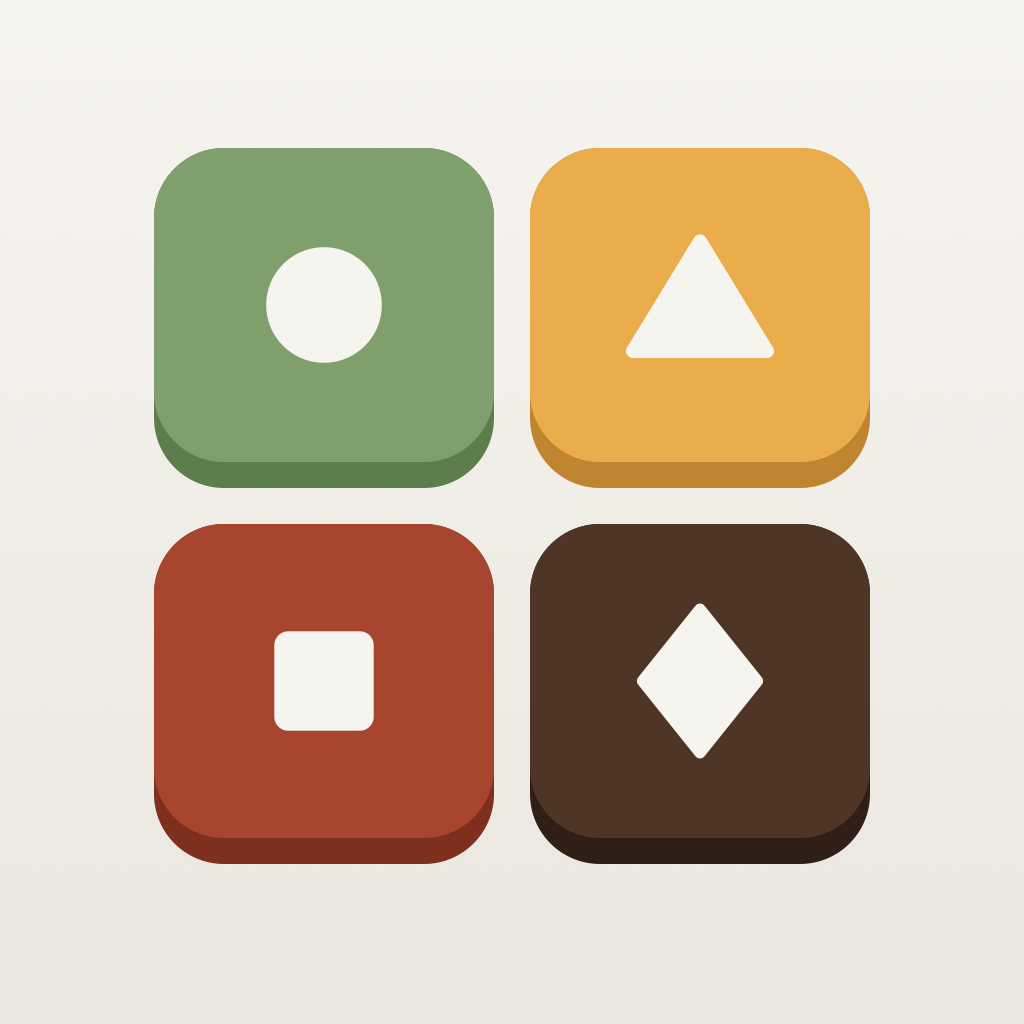
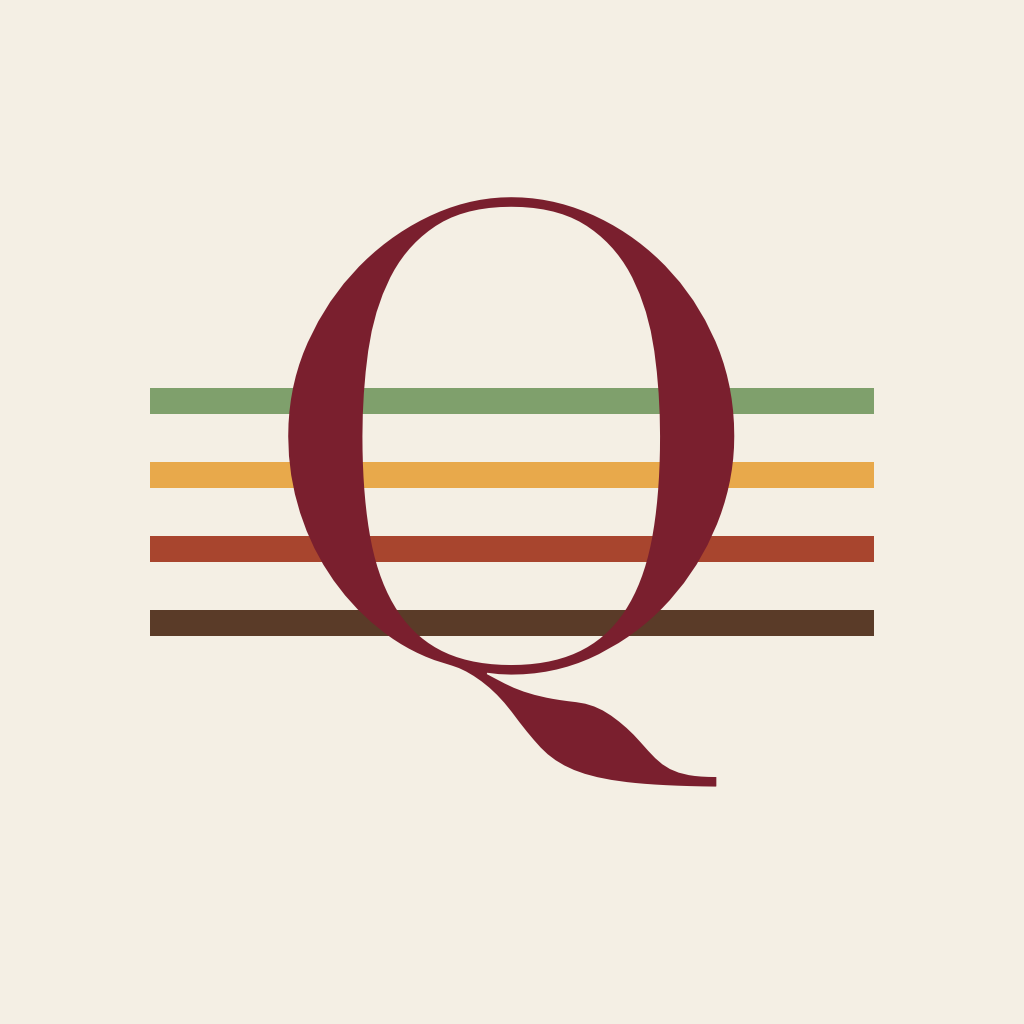
Quartets 1.1: program look, Allegro and Quintet, privacy covers Game Center

diff --git a/index.html b/index.html
@@ -1,25 +1,33 @@
 <!doctype html>
 <html lang="en"><head><meta charset="utf-8"><meta name="viewport" content="width=device-width,initial-scale=1">
-<title>Quartets: Daily Word Groups</title>
-<meta name="description" content="A daily word puzzle for iPhone. Sixteen words, four groups of four, four mistakes. Three years of Dailies and six themed packs.">
-<link rel="stylesheet" href="style.css"><link rel="icon" href="icon.png"></head>
-<body><main>
-<header><img src="icon.png" alt=""><div><h1>Quartets</h1><div class="lead">A daily word puzzle for iPhone</div></div></header>
-<nav><a href="#faq">FAQ</a><a href="privacy.html">Privacy</a><a href="terms.html">Terms</a><a href="mailto:shchukavlad4@gmail.com?subject=Quartets">Contact</a></nav>
+<title>Quartets</title>
+<meta name="description" content="Quartets is a daily word puzzle for iPhone: sixteen words, four hidden groups. Plus a Sunday Quintet, the Allegro speed round and eight packs.">
+<link rel="stylesheet" href="style.css"></head>
+<body><main class="page">
+<p class="label center">The 2026–27 season</p>
+<img class="icon" src="icon.png" alt="Quartets app icon: a Q over four colored staff lines">
+<h1>Quartets</h1>
+<hr class="rule">
+<p class="center note">A word puzzle for iPhone, printed like a concert program.</p>
+<p class="center"><a class="store" href="https://apps.apple.com/app/id6816981192">On the App Store</a></p>
 
-<p>Sixteen words sit on the board. They split into four groups of four, and each group shares a link: kinds of pasta, words that go before "ball", words with an animal hidden inside. Find all four groups before you make four mistakes.</p>
+<p class="label center" style="margin-top:36px">Program</p>
+<ol class="programme">
+  <li><span class="num">I</span><div><strong>Today's Quartet</strong><span>Sixteen words hide four groups of four. Everyone gets the same board, and four mistakes end it.</span></div></li>
+  <li><span class="num">II</span><div><strong>Allegro</strong><span>Three boards on one clock, a new set each day. Optional Game Center times.</span></div></li>
+  <li><span class="num">III</span><div><strong>The Sunday Quintet</strong><span>A bigger board once a week: twenty-five words, five groups of five.</span></div></li>
+  <li><span class="num">IV</span><div><strong>Repertoire</strong><span>Eight packs of fifty boards, from Kitchen Table to Passport.</span></div></li>
+  <li><span class="num">V</span><div><strong>The Season</strong><span>Every past Daily, back to No. 1.</span></div></li>
+</ol>
 
-<h2 id="faq">Questions</h2>
-<div class="card"><strong>What does "One away" mean?</strong><br>Three of the four words you picked belong together. Swap one word and try again.</div>
-<div class="card"><strong>Does picking the same four words twice cost a mistake?</strong><br>No. If you submit a set you already tried, the app tells you and nothing is counted.</div>
-<div class="card"><strong>What do the colors mean?</strong><br>They show difficulty, from easiest to trickiest: green, orange, red and brown. Each one also has its own shape (circle, triangle, square, diamond), so you don't need to tell colors apart.</div>
-<div class="card"><strong>What's Hard mode?</strong><br>Group names stay hidden until the puzzle is over. You still see which words went together. Turn it on in Settings.</div>
-<div class="card"><strong>When does a new puzzle come out?</strong><br>At midnight on your phone's clock. Everyone gets the same puzzle for the same date.</div>
-<div class="card"><strong>How does the streak work?</strong><br>Finish the day's puzzle, win or lose, to keep your streak going. Archive and pack puzzles don't count. A streak freeze covers one missed day a week (two with Unlimited).</div>
-<div class="card"><strong>What's free?</strong><br>The daily puzzle, the last 7 days of the archive, the Starter pack, your streak, basic stats and the widget. Unlimited adds every past Daily, all packs (including new ones), full stats and extra themes.</div>
-<div class="card"><strong>How do I cancel a subscription?</strong><br>On your iPhone open Settings, tap your name, then Subscriptions, and choose Quartets. Cancel at least 24 hours before the renewal date. Lifetime is a one-time payment and never renews.</div>
-<div class="card"><strong>I bought Unlimited on another device.</strong><br>Open Settings in Quartets and tap Restore Purchases while signed in with the same Apple Account.</div>
-<div class="card"><strong>I think a puzzle has two answers.</strong><br>Please tell us. Write to <a href="mailto:shchukavlad4@gmail.com?subject=Quartets%20puzzle">shchukavlad4@gmail.com</a> with the puzzle number (or pack and number) and the words. We check every report.</div>
+<div class="insert">
+<h2>Support</h2>
+<p><strong>How do I play?</strong> Tap four words you think belong together, then Submit. "One away" means three of your four are right. The first launch opens a short practice board. To play it again, open the Green Room and tap Rehearse again.</p>
+<p><strong>What does the Season Ticket include?</strong> Every past Daily and Quintet, all the packs (new ones too), full stats in the Notices, two more color themes and a second streak freeze each week. Today's board, the last seven days, this week's Quintet, Allegro and the Starter pack are free.</p>
+<p><strong>How do I restore a purchase?</strong> Green Room → Season Ticket → Restore purchases. Manage subscriptions in iPhone Settings → your name → Subscriptions.</p>
+<p><strong>Is Game Center required?</strong> No. It stays off until you turn it on in the Green Room or on the Notices page.</p>
+<p><strong>Something wrong with a board?</strong> Write to <a href="mailto:shchukavlad4@gmail.com?subject=Quartets">shchukavlad4@gmail.com</a> with the board's number.</p>
+</div>
 
-<footer>© 2026 Vladyslav Shchuka · <a href="privacy.html">Privacy Policy</a> · <a href="terms.html">Terms of Use</a></footer>
+<footer><a href="privacy.html">Privacy</a> · <a href="terms.html">Terms of Use</a></footer>
 </main></body></html>

diff --git a/terms.html b/terms.html
@@ -1,22 +1,24 @@
 <!doctype html>
 <html lang="en"><head><meta charset="utf-8"><meta name="viewport" content="width=device-width,initial-scale=1">
-<title>Terms of Use · Quartets</title><link rel="stylesheet" href="style.css"><link rel="icon" href="icon.png"></head>
-<body><main>
-<p><a href="index.html">← Quartets</a></p>
-<h1>Terms of Use</h1>
-<p class="lead">Last updated: September 28, 2026</p>
-<p>Quartets is licensed to you under Apple's Standard Licensed Application End User License Agreement (<a href="https://www.apple.com/legal/internet-services/itunes/dev/stdeula/">Apple EULA</a>). These terms add the details below.</p>
-<h2>Quartets Unlimited</h2>
+<title>Quartets · Terms of Use</title><link rel="stylesheet" href="style.css"><link rel="icon" href="icon.png"></head>
+<body><main class="page">
+<p class="label"><a href="index.html">Quartets</a></p>
+<h1 style="text-align:left">Terms of Use</h1>
+<p class="note">Last updated: October 29, 2026 (version 1.1)</p>
+<p>Quartets is licensed to you under Apple's Standard Licensed Application End User License Agreement (<a href="https://www.apple.com/legal/internet-services/itunes/dev/stdeula/">Apple EULA</a>). The points below add to it.</p>
+<h2>The Season Ticket (Quartets Unlimited)</h2>
 <ul>
-<li><strong>Monthly</strong> ($1.99) and <strong>Yearly</strong> ($11.99, with a 7-day free trial for eligible new subscribers) are auto-renewable subscriptions. Prices shown in the app in your local currency apply.</li>
-<li>Payment is charged to your Apple Account when you confirm the purchase, or when the free trial ends.</li>
-<li>A subscription renews automatically unless it is turned off at least 24 hours before the end of the current period. Your account is charged for renewal within 24 hours before the period ends.</li>
-<li>You can manage or cancel subscriptions in your device's Settings under your name, then Subscriptions. Any unused part of a free trial ends when you buy a subscription.</li>
-<li><strong>Lifetime</strong> ($24.99) is a one-time purchase that unlocks Unlimited permanently for your Apple Account.</li>
-<li>Refunds are handled by Apple under its policies.</li>
+<li>The <strong>Monthly pass</strong> ($1.99 a month) and the <strong>Season pass</strong> ($11.99 a year, with a 7-day free trial for eligible new subscribers) are auto-renewable subscriptions. The app shows prices in your local currency, and those apply.</li>
+<li>Payment goes to your Apple Account when you confirm the purchase, or when the free trial ends.</li>
+<li>A subscription renews automatically unless you turn it off at least 24 hours before the current period ends. Renewal is charged within the 24 hours before the period ends.</li>
+<li>You can manage or cancel a subscription in your iPhone's Settings under your name, then Subscriptions. Any unused part of a free trial ends when you buy a subscription.</li>
+<li>The <strong>Lifetime seat</strong> ($24.99) is a one-time purchase that keeps the Season Ticket on your Apple Account for good.</li>
+<li>Apple handles refunds under its own policies.</li>
 </ul>
-<h2>Content</h2>
-<p>Puzzles are written for Quartets. Word lists refer to general knowledge; any mention of a real place or thing is only there as a word.</p>
+<h2>Boards</h2>
+<p>Every board is written for Quartets. Words refer to general knowledge; a real place or thing appears only as a word.</p>
+<h2>Game Center</h2>
+<p>Game Center is optional and run by Apple under Apple's terms.</p>
 <h2>Contact</h2>
 <p><a href="mailto:shchukavlad4@gmail.com">shchukavlad4@gmail.com</a></p>
 </main></body></html>

diff --git a/style.css b/style.css
@@ -1,14 +1,32 @@
-:root{--paper:#F1EFEA;--card:#FAF9F6;--ink:#1C1F24;--soft:#555A63;--accent:#2B4E85;--rule:#DAD7CF}
-@media (prefers-color-scheme:dark){:root{--paper:#141619;--card:#1E2125;--ink:#ECEDEF;--soft:#A9AEB6;--accent:#9DBAEB;--rule:#33373D}}
-*{box-sizing:border-box}
-body{margin:0;background:var(--paper);color:var(--ink);font:17px/1.6 -apple-system,BlinkMacSystemFont,"Helvetica Neue",sans-serif}
-main{max-width:720px;margin:0 auto;padding:32px 20px 64px}
-h1,h2{font-family:"New York",ui-serif,Georgia,serif;line-height:1.25}
-h1{font-size:34px;margin:12px 0 4px}h2{font-size:22px;margin-top:36px}
-a{color:var(--accent)}
-.lead{color:var(--soft);font-size:19px}
-header{display:flex;align-items:center;gap:14px}
-header img{width:64px;height:64px;border-radius:14px}
-nav{margin:24px 0;display:flex;gap:18px;flex-wrap:wrap;font-weight:600}
-.card{background:var(--card);border:1px solid var(--rule);border-radius:16px;padding:18px 20px;margin:14px 0}
-footer{color:var(--soft);font-size:14px;margin-top:48px}
+/* Quartets: the site is printed like the app's concert programme. System fonts only (no web
+   font requests, so a visit sends nothing to a third party). */
+:root {
+  --paper: #f4efe4; --insert: #fbf8f1; --print: #1c1915; --faded: #5c554a;
+  --house: #7a1f2e; --gilt: #b4914a; --hairline: #dcd2c0;
+  --display: Didot, "Bodoni 72", "Bodoni MT", "Libre Bodoni", Georgia, serif;
+  --text: "New York", "Iowan Old Style", Georgia, serif;
+}
+@media (prefers-color-scheme: dark) {
+  :root { --paper: #15120f; --insert: #201c18; --print: #efe8da; --faded: #b0a696; --house: #e79ca7; --gilt: #c9a55e; --hairline: #3a332c; }
+}
+* { box-sizing: border-box; }
+html { background: var(--paper); }
+body { margin: 0; color: var(--print); font: 18px/1.6 var(--text); }
+.page { max-width: 720px; margin: 24px auto; padding: 40px 32px 48px; border: 1.5px solid var(--gilt); outline: 0.5px solid var(--gilt); outline-offset: -8px; }
+@media (max-width: 760px) { .page { margin: 16px; padding: 28px 20px 36px; } }
+.label { font: 600 13px/1.4 var(--display); letter-spacing: .18em; text-transform: uppercase; color: var(--faded); }
+h1 { font: 400 clamp(44px, 9vw, 72px)/1.05 var(--display); margin: 8px 0 0; text-align: center; }
+h2 { font: 700 24px/1.25 var(--display); margin: 36px 0 8px; }
+.rule { width: 160px; margin: 14px auto; border: 0; border-top: 2px solid var(--gilt); border-bottom: 0.5px solid var(--gilt); height: 3px; }
+.center { text-align: center; }
+.note { font-style: italic; color: var(--faded); }
+a { color: var(--house); }
+.programme { list-style: none; padding: 0; margin: 24px 0; }
+.programme li { display: grid; grid-template-columns: 44px 1fr; gap: 0 8px; margin: 14px 0; }
+.programme .num { font: 700 21px/1.4 var(--display); color: var(--house); }
+.programme strong { font: 700 21px/1.4 var(--display); }
+.programme span { display: block; font-style: italic; color: var(--faded); }
+.icon { display: block; width: 112px; height: 112px; margin: 0 auto 12px; border-radius: 24px; }
+.store { display: inline-block; margin-top: 8px; padding: 12px 22px; background: var(--house); color: var(--insert); text-decoration: none; letter-spacing: .12em; text-transform: uppercase; font: 600 14px var(--display); }
+.insert { background: var(--insert); border: 1px solid var(--hairline); padding: 4px 20px 16px; margin: 24px 0; }
+footer { margin-top: 40px; font-size: 15px; color: var(--faded); text-align: center; }

diff --git a/privacy.html b/privacy.html
@@ -1,19 +1,21 @@
 <!doctype html>
 <html lang="en"><head><meta charset="utf-8"><meta name="viewport" content="width=device-width,initial-scale=1">
-<title>Privacy Policy · Quartets</title><link rel="stylesheet" href="style.css"><link rel="icon" href="icon.png"></head>
-<body><main>
-<p><a href="index.html">← Quartets</a></p>
-<h1>Privacy Policy</h1>
-<p class="lead">Last updated: September 28, 2026</p>
-<p>Quartets doesn't collect personal data. There is no account, no analytics, no advertising and no tracking.</p>
-<h2>What stays on your device</h2>
-<p>Your games in progress, finished games, streak, statistics and settings are stored only on your iPhone. The widget reads the same data from a shared container on the device. Deleting the app deletes this data.</p>
+<title>Quartets · Privacy</title><link rel="stylesheet" href="style.css"></head>
+<body><main class="page">
+<p class="label"><a href="index.html">Quartets</a></p>
+<h1 style="text-align:left">Privacy</h1>
+<p class="note">Last updated: October 29, 2026 (version 1.1)</p>
+<p>Quartets collects no personal data. There's no account, no analytics, no advertising and no tracking, and the app has no server of its own.</p>
+<h2>On your iPhone</h2>
+<p>Boards in progress, finished boards, Allegro runs, your streak, stats and settings stay on your iPhone. The widget reads your streak and today's progress from a shared container on the same device. Deleting the app deletes all of it.</p>
+<h2>Game Center (optional)</h2>
+<p>Game Center is off until you turn it on. If you do, Apple's Game Center receives your Allegro score, your longest streak and the laurels you earn, under your Game Center profile. That exchange is between your device and Apple and follows <a href="https://www.apple.com/legal/privacy/">Apple's privacy policy</a>; we don't receive it.</p>
 <h2>Purchases</h2>
-<p>Subscriptions and the Lifetime purchase are handled by Apple through the App Store. We never see your payment details. The app only asks the App Store whether Unlimited is active.</p>
+<p>The Season Ticket (subscription or lifetime) is sold and handled by Apple through the App Store. We never see your payment details; the app only asks the App Store whether your ticket is active.</p>
 <h2>Notifications</h2>
-<p>If you turn on the daily reminder, the app schedules a local notification on your device. Nothing is sent to a server.</p>
+<p>If you turn on the morning bell, the app schedules a local notification on your device. Nothing goes to a server.</p>
 <h2>Children</h2>
-<p>The app doesn't collect data from anyone, including children.</p>
+<p>The app collects no data from anyone, children included.</p>
 <h2>Changes and contact</h2>
-<p>If this policy changes, the new version will be posted on this page with a new date. Questions: <a href="mailto:shchukavlad4@gmail.com">shchukavlad4@gmail.com</a>.</p>
+<p>If this policy changes, the new version goes on this page with a new date. Questions: <a href="mailto:shchukavlad4@gmail.com">shchukavlad4@gmail.com</a>.</p>
 </main></body></html>
